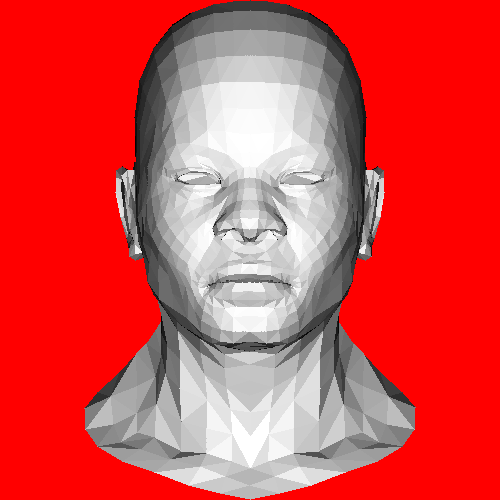
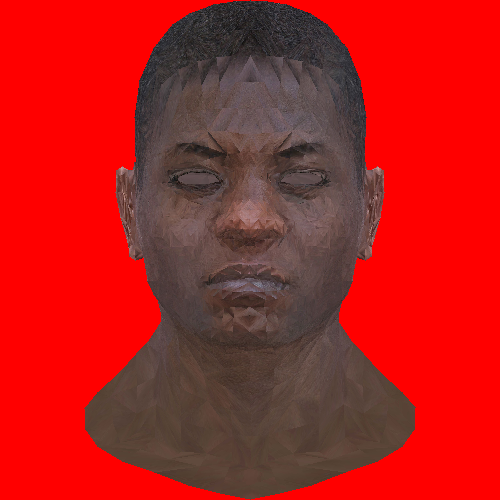
1

diff --git a/t1.py b/t1.py
@@ -1,5 +1,6 @@
 # coding=gb18030
 # by cyx at 2019/10/17 13:01
+from typing import Optional, Any
 
 from PIL import Image, ImageOps
 import common_class
@@ -38,7 +39,7 @@ def test2():  # draw triangle
 	lightDir.data[2] = -11
 	lightDir.normalize()
 
-	for idx,face in enumerate(mod.faces):
+	for idx, face in enumerate(mod.faces):
 		p0 = mod.vertexs[face[0]]
 		p1 = mod.vertexs[face[1]]
 		p2 = mod.vertexs[face[2]]
@@ -55,6 +56,7 @@ def test2():  # draw triangle
 
 	m = ImageOps.flip(rt.as_image())
 	m.save('out.png')
+
 
 def test3():  # draw triangle with z buffer
 	rt = common_class.RenderTarget.from_w_h(500, 500, (255, 0, 0, 255), withZBuffer=True)
@@ -67,11 +69,16 @@ def test3():  # draw triangle with z buffer
 	lightDir.data[2] = -1
 	lightDir.normalize()
 
-	for idx,face in enumerate(mod.faces):
+	tex: Image.Image = Image.open('res/texture/african_head_diffuse.tga')
+	tex = tex.convert('RGBA')
+	for idx, face in enumerate(mod.faces):
 		p0 = mod.vertexs[face[0]]
 		p1 = mod.vertexs[face[1]]
 		p2 = mod.vertexs[face[2]]
-		intensity = 1
+		uvIdx = mod.facesTex[idx]
+		p0.uv = mod.textureCoords[uvIdx[0]]
+		p1.uv = mod.textureCoords[uvIdx[1]]
+		p2.uv = mod.textureCoords[uvIdx[2]]
 		n = numpy.cross(p2.xyzw - p0.xyzw, p1.xyzw - p0.xyzw)
 		n = n / numpy.linalg.norm(n)
 		intensity = numpy.dot(lightDir.data, n)
@@ -80,19 +87,20 @@ def test3():  # draw triangle with z buffer
 		# intensity = ((idx*10)%256)/255.99
 		c = common_class.Color(numpy.array([intensity, intensity, intensity, 1]))
 		c.data[3] = 1
-		rasterizer.triangle(p0, p1, p2, rt, c)
+		rasterizer.triangle(p0, p1, p2, rt, c, tex)
 
 	m = ImageOps.flip(rt.as_image())
 	m.save('out.png')
 
 	z = rt.zBuffer
-	z = z*255.99 + 255.99
+	z = z * 255.99 + 255.99
 	z = z.astype(numpy.dtype('uint8'))
 	m = ImageOps.flip(Image.fromarray(z))
 	m.save('zbuffer.png')
 
+
 def triangle_test():
-	rt = common_class.RenderTarget.from_w_h(500, 500, (0,0,0,255))
+	rt = common_class.RenderTarget.from_w_h(500, 500, (0, 0, 0, 255))
 	c = common_class.Color(numpy.array([1, 1, 1, 1.0]))
 	v0 = common_class.Vertex(numpy.array([0, 0, 0]))
 	v1 = common_class.Vertex(numpy.array([0, 1, 0]))
@@ -107,7 +115,6 @@ def triangle_test():
 	m.save('out.png')
 
 
-
 if __name__ == '__main__':
 	test3()
-	# triangle_test()
+# triangle_test()

diff --git a/rasterizer.py b/rasterizer.py
@@ -41,7 +41,8 @@ def interpolate_by_uv(u, v, commonDiv, v0, v1, v2):
 
 
 def triangle(v0: common_class.Vertex, v1: common_class.Vertex, v2: common_class.Vertex,
-             image: common_class.RenderTarget, color: common_class.Color):
+             image: common_class.RenderTarget, color: common_class.Color,
+             texture: Image.Image = None):
 	# u * v01 +v * v02 = v0p
 	size = image.data.shape
 	x0, y0 = get_coord(v0.x, size[0]), get_coord(v0.y, size[1])
@@ -70,6 +71,8 @@ def triangle(v0: common_class.Vertex, v1: common_class.Vertex, v2: common_class.
 	maxy = max(y1, y2, y0)
 	t = color.as_rgba_tuple()
 	d = image.data
+	if texture:
+		tw, th = texture.size
 	for px in range(minx, maxx + 1):
 		for py in range(miny, maxy + 1):
 			u = ux * px + uy * py + uc
@@ -79,8 +82,17 @@ def triangle(v0: common_class.Vertex, v1: common_class.Vertex, v2: common_class.
 			if v > commonDiv and vy > commonDiv:
 				break
 			if 0 <= u <= commonDiv and 0 <= v <= commonDiv and u + v <= commonDiv:
+				curColor = t
+				if texture:
+					curTexU = interpolate_by_uv(u, v, commonDiv, v0.uv[0], v1.uv[0], v2.uv[0])
+					curTexV = interpolate_by_uv(u, v, commonDiv, v0.uv[1], v1.uv[1], v2.uv[1])
+					p = texture.getpixel((int(curTexU * tw), int((1-curTexV) * th)))
+					curColor = p
 				if image.zBuffer.size > 0:
 					curZ = interpolate_by_uv(u, v, commonDiv, v0.z, v1.z, v2.z)
 					if curZ > image.zBuffer[py, px]:
 						image.zBuffer[py, px] = curZ
-						d[py, px] = t
+						d[py, px] = curColor
+				else:
+					d[py, px] = curColor
+

diff --git a/common_class.py b/common_class.py
@@ -65,7 +65,6 @@ class Color(object):
 class Vector(object):
 	data = attr.ib(factory=lambda: numpy.array([]))
 	length = attr.ib(default=0)
-
 	@classmethod
 	def from_size(cls, w):
 		c = cls()
@@ -82,6 +81,7 @@ class Vector(object):
 @attr.s
 class Vertex(object):
 	xyzw = attr.ib(factory=lambda: numpy.array([]))
+	uv = attr.ib(default=[])
 
 	@property
 	def x(self):
